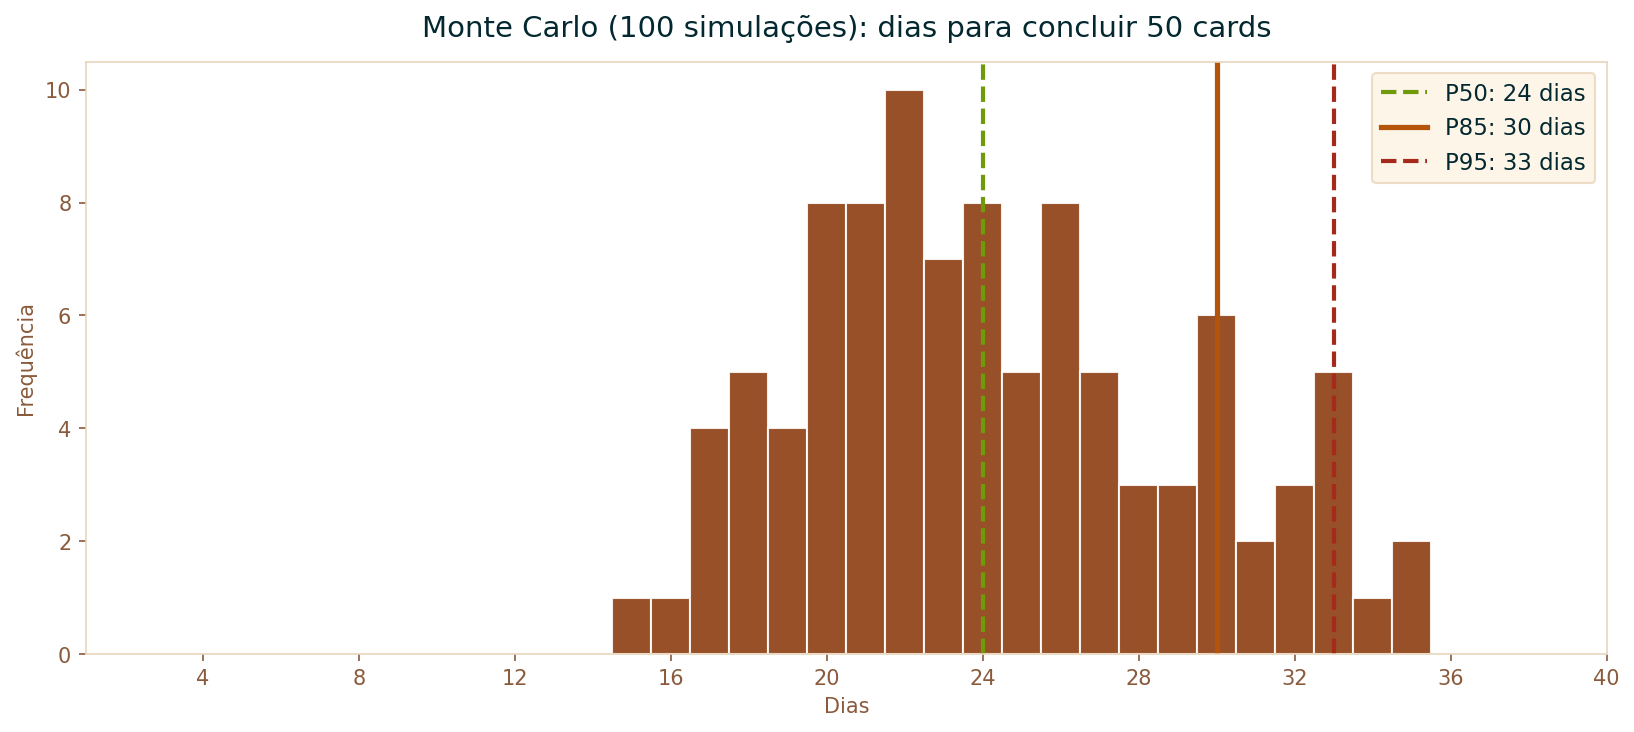
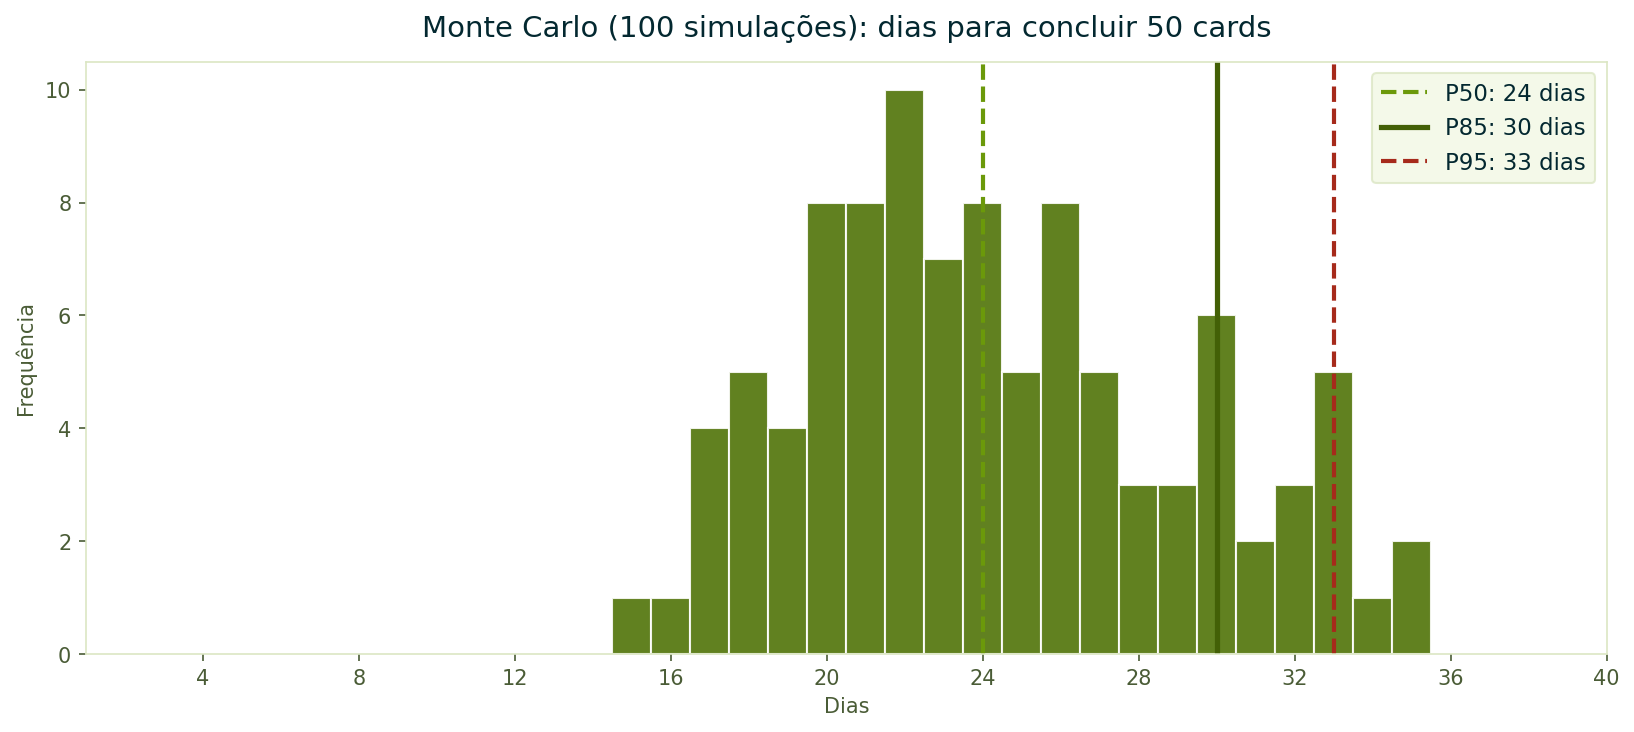
feat(slides): green-dominant variant
Variant of the PyNE theme built on a single-hue green scale taken from the
logo's #80b80c (hue 79.5deg). Lives on this branch; pyne-2026 keeps the
orange-led version.

In an analogous palette lightness is the only dimension that separates
reliably, so this builds depth from one hue at seven lightnesses rather than
from several hues:

  --g-950 #141d02  cover start
  --g-900 #1e2b03  cover end, under the logo
  --g-800 #283a04
  --g-600 #436006  h1, table header text   6.74:1
  --g-500 #507307  table column 3          5.18:1
  --g-300 #6b990a  bullets                 3.18:1
  --g-050 #f2f8e4  table header band

The cover is pure green. An ember stop was tried at 70% and removed because
rust meeting mid-green went muddy khaki. Measured from the render, the logo's
own green reads at 5.65:1 against the ground beside it and the cream title at
13.04:1, so the logo supplies all the warmth the cover needs.

The quote bar stays PyNE orange, the only warm element on a content slide, so
quotes read as an interruption. The top keyline keeps all four brand colours.

Charts regenerated on the same scale: green carries the data (bars, curves,
fills) and red is reserved for P95, the one line that means trouble.

diff --git a/slides/style.css b/slides/style.css
@@ -14,7 +14,7 @@
   --cream: #f0f3bd;
 
   /* Semantic roles */
-  --primary: var(--pyne-orange-dk);
+  --primary: var(--g-600);
   --green: var(--mint-leaf);
   --secondary: #032830; /* near-black dark teal — high contrast on projector */
   --paper: var(--cream);
@@ -31,10 +31,22 @@
   /* Darkened cousins of the same hues, for surfaces that carry text.
      The brand colors above are drawn for a logo and are all too light
      to sit under white or cream type. */
-  --pyne-orange-dk: #b4540a; /* h1, underline  — 4.67:1 on #f6f9ea */
-  --pyne-green-dk: #567b08; /* h2/h3, table col 3 — 4.64:1 */
-  --pyne-amber-dk: #be7d07; /* bullets — 3.21:1, bright enough to read as amber */
-  --pyne-band: #fdf3e3; /* table header band — light, so the data leads */
+  --pyne-orange-dk: #b4540a; /* quote bar — the one warm note in a green deck */
+  --pyne-green-dk: #567b08;
+  --pyne-amber-dk: #be7d07;
+  --pyne-band: #fdf3e3;
+
+  /* ── Green scale, hue 79.5° from the logo's #80b80c ──────
+     One hue at many lightnesses. In an analogous palette,
+     lightness is the only dimension that separates reliably,
+     so a single-hue scale is the honest way to build depth. */
+  --g-950: #141d02; /* cover start */
+  --g-900: #1e2b03; /* cover end, under the logo */
+  --g-800: #283a04;
+  --g-600: #436006; /* h1, table header text — 6.74:1 */
+  --g-500: #507307; /* table column 3 — 5.18:1 */
+  --g-300: #6b990a; /* bullets — 3.18:1 */
+  --g-050: #f2f8e4; /* table header band */
   --pyne-red-dk: #a62a1b; /* quote bar — 6.62:1 */
   --pyne-red-deep: #721d13; /* .alerta — 10.34:1, reads as emphasis by darkness */
   --pyne-rust: #8c3d10; /* table header band — 7.05:1 */
@@ -93,13 +105,16 @@
      Rust, not green, at the bottom-right end: the logo's own green
      (#80b80c) reads at 2.11:1 against a green ground and at 6.5:1
      against #3d1a0b, so a green end swallows the map. */
+  /* One hue, five lightnesses. An ember stop was tried here and removed:
+     where rust met mid-green it went muddy khaki. The logo supplies all the
+     warmth this cover needs, and it needs a dark green ground to do it. */
   background: linear-gradient(
     135deg,
-    var(--pyne-leaf-deep) 0%,
-    var(--pyne-leaf-dk) 22%,
-    var(--pyne-rust) 52%,
-    var(--pyne-ember) 78%,
-    var(--pyne-rust-deep) 100%
+    var(--g-950) 0%,
+    var(--g-800) 30%,
+    #4a6b07 55%,
+    #2f4404 80%,
+    var(--g-900) 100%
   ) !important;
 }
 
@@ -178,7 +193,7 @@
   left: 2.8rem;
   right: 2.8rem;
   height: 3px;
-  background: linear-gradient(90deg, var(--pyne-orange), var(--pyne-amber), rgba(247, 170, 28, 0));
+  background: linear-gradient(90deg, var(--pyne-green), var(--pyne-amber), rgba(247, 170, 28, 0));
   border-radius: 2px;
 }
 
@@ -263,9 +278,9 @@
   padding-left: 3.1rem;
 }
 
-/* Bullets take amber, their own hue in the role system */
+/* Bullets take a brighter step of the same green scale */
 .slidev-layout:not(.cover):not(.image-slide-contain) li::marker {
-  color: var(--pyne-amber-dk);
+  color: var(--g-300);
 }
 
 .slidev-layout:not(.cover):not(.image-slide-contain) li + li {
@@ -311,15 +326,16 @@
   margin: 1.4rem 2.8rem 0;
   padding: 1rem 1.5rem 1rem 1.8rem;
   max-width: 88%;
-  border-left: 4px solid var(--pyne-red-dk);
-  background: linear-gradient(90deg, rgba(166, 42, 27, 0.09) 0%, rgba(140, 61, 16, 0.02) 100%);
+  /* The one warm element in a green deck, so quotes read as an interruption */
+  border-left: 4px solid var(--pyne-orange-dk);
+  background: linear-gradient(90deg, rgba(180, 84, 10, 0.09) 0%, rgba(180, 84, 10, 0.02) 100%);
   color: var(--primary) !important;
   font-size: 1.85rem;
   line-height: 1.22;
   font-weight: 600;
   letter-spacing: -0.01em;
   border-radius: 0 10px 10px 0;
-  box-shadow: 0 4px 20px rgba(140, 61, 16, 0.08);
+  box-shadow: 0 4px 20px rgba(67, 96, 6, 0.08);
 }
 
 .slidev-layout:not(.cover):not(.image-slide-contain) .quote-block::before {
@@ -329,7 +345,7 @@
   left: 0.65rem;
   font-size: 2.8rem;
   line-height: 1;
-  color: rgba(166, 42, 27, 0.38);
+  color: rgba(180, 84, 10, 0.38);
 }
 
 .slidev-layout.sle-actions-slide .quote-block {
@@ -345,16 +361,16 @@
   border-spacing: 0;
   border-radius: 10px;
   overflow: hidden;
-  background: #fdf9f0;
+  background: #fafcf4;
   color: var(--secondary) !important;
   font-size: 1.3rem;
-  box-shadow: 0 2px 16px rgba(140, 61, 16, 0.1);
+  box-shadow: 0 2px 16px rgba(67, 96, 6, 0.1);
 }
 
 .slidev-layout:not(.cover):not(.image-slide-contain) th,
 .slidev-layout:not(.cover):not(.image-slide-contain) td {
   border: none;
-  border-bottom: 1px solid rgba(140, 61, 16, 0.14);
+  border-bottom: 1px solid rgba(67, 96, 6, 0.14);
   padding: 0.5rem 0.85rem;
   text-align: left;
   color: var(--secondary) !important;
@@ -363,25 +379,25 @@
 .slidev-layout:not(.cover):not(.image-slide-contain) th {
   /* Light band with a rust rule, not a solid dark fill. A heavy header is a
      spreadsheet convention and outweighs the data it sits above. */
-  background: var(--pyne-band);
-  color: var(--pyne-rust) !important;
+  background: var(--g-050);
+  color: var(--g-600) !important;
   font-weight: 700;
-  border-bottom: 2px solid var(--pyne-rust);
+  border-bottom: 2px solid var(--g-600);
   letter-spacing: 0.01em;
 }
 
 .slidev-layout:not(.cover):not(.image-slide-contain) tbody tr:nth-child(even) {
-  background: rgba(180, 84, 10, 0.06);
+  background: rgba(67, 96, 6, 0.06);
 }
 
 .slidev-layout:not(.cover):not(.image-slide-contain) th:nth-child(3),
 .slidev-layout:not(.cover):not(.image-slide-contain) td:nth-child(3) {
-  color: var(--pyne-green-dk) !important;
+  color: var(--g-500) !important;
   font-weight: 700;
 }
 
 .slidev-layout:not(.cover):not(.image-slide-contain) th:nth-child(3) {
-  color: var(--pyne-rust) !important;
+  color: var(--g-600) !important;
 }
 
 /* ─── Image-only slides ─────────────────────────────────── */
@@ -492,7 +508,7 @@
   display: block;
   margin: 0.4rem 2.8rem 1.4rem;
   border-radius: 12px;
-  box-shadow: 0 4px 24px rgba(140, 61, 16, 0.12);
+  box-shadow: 0 4px 24px rgba(67, 96, 6, 0.12);
 }
 
 /* ─── Pane positions ────────────────────────────────────── */

diff --git a/generate_charts.py b/generate_charts.py
@@ -27,15 +27,15 @@ DATA_FILE = Path("data/lead_time_data_clean_2026.csv")
 # o linestyle ("--", ":", "-"), ja usado nos percentis. Cada cor abaixo e
 # escolhida para ser visivel contra o branco, nao contra as outras.
 BG = "#ffffff"
-BG2 = "#fff8e5"  # PyNE cream
-SURFACE = "#fdf3e3"  # warm tint, igual a faixa do cabecalho de tabela
+BG2 = "#f2f8e4"  # tint verde claro, igual a faixa do cabecalho de tabela
+SURFACE = "#f2f8e4"  # tint verde claro
 TEXT = "#032830"  # near-black, igual ao corpo de texto dos slides
-TEXT_MUTED = "#8a5a3c"  # warm brown, 5.82:1 no branco
-GRID = "#e8d5bc"  # warm light
-GREEN = "#6f9a0a"  # PyNE green, 3.33:1
-RED = "#a62a1b"  # PyNE red, 7.07:1 (antes era verdigris, apesar do nome)
-MAIN = "#b4540a"  # PyNE orange, 4.98:1, mesmo tom dos h1
-MC_BAR = "#8c3d10"  # rust, 7.53:1
+TEXT_MUTED = "#4a5c36"  # verde acinzentado, 6.4:1 no branco
+GRID = "#dbe6c4"  # verde claro
+GREEN = "#6b990a"  # escala verde g-300, 3.30:1
+RED = "#a62a1b"  # PyNE red, 7.07:1, usado so no P95
+MAIN = "#436006"  # escala verde g-600, 6.74:1, mesmo tom dos h1
+MC_BAR = "#507307"  # escala verde g-500, 5.18:1
 
 
 def load_data(clean_cycle_time: bool = True) -> pd.DataFrame:
